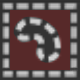
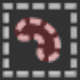
FEAT: Layers management

diff --git a/KritaPlugin/Actions/Layers/ViewLayerOpacityAdjustment.cs b/KritaPlugin/Actions/Layers/ViewLayerOpacityAdjustment.cs
@@ -1,0 +1,58 @@
+using LoupedeckKritaApiClient.ClientBase;
+
+namespace Loupedeck.KritaPlugin
+{
+    // This class implements an example adjustment that counts the rotation ticks of a dial.
+
+    public class ViewLayerOpacityAdjustment : PluginDynamicAdjustment
+    {
+        private KritaPlugin KritaPlugin => (KritaPlugin)Plugin;
+        private Timer? _timer;
+
+        // Initializes the adjustment class.
+        // When `hasReset` is set to true, a reset command is automatically created for this adjustment.
+        public ViewLayerOpacityAdjustment()
+            : base(displayName: "Layer Opacity", description: "Adjust current layer's opacity", groupName: ActionGroups.Layers, hasReset: true)
+        {
+        }
+
+        protected override BitmapImage GetAdjustmentImage(string actionParameter, PluginImageSize imageSize)
+        {
+            return EmbeddedResources.ReadImage(EmbeddedResources.FindFile("LayerOpacity.png"));
+        }
+
+        // This method is called when the adjustment is executed.
+        protected override void ApplyAdjustment(String actionParameter, Int32 diff)
+        {
+            var opacity = KritaPlugin.Client.CurrentNode.Opacity().Result;
+            var newOpacity = Math.Min(Math.Max(opacity + diff, 0), 255);
+
+            if (newOpacity != opacity)
+            {
+                KritaPlugin.Client.CurrentNode.SetOpacity(newOpacity).Wait();
+                if (_timer != null)
+                {
+                    _timer.Dispose();
+                    _timer = null;
+                }
+                _timer = new Timer((_) => KritaPlugin.Client.CurrentDocument.RefreshProjection(), null, 500, Timeout.Infinite);
+
+                AdjustmentValueChanged(); // Notify the plugin service that the adjustment value has changed.
+            }
+        }
+
+        // This method is called when the reset command related to the adjustment is executed.
+        protected override void RunCommand(String actionParameter)
+        {
+            KritaPlugin.Client.CurrentNode.SetOpacity(255).Wait();
+            KritaPlugin.Client.CurrentDocument.RefreshProjection();
+            AdjustmentValueChanged(); // Notify the plugin service that the adjustment value has changed.
+        }
+
+        // Returns the adjustment value that is shown next to the dial.
+        protected override String GetAdjustmentValue(String actionParameter)
+        {
+            return (KritaPlugin.Client.CurrentNode.Opacity().Result * 100 / 255).ToString() + " %";
+        }
+    }
+}

diff --git a/KritaPlugin/Actions/Layers/ViewMoveLayerAdjustment.cs b/KritaPlugin/Actions/Layers/ViewMoveLayerAdjustment.cs
@@ -4,20 +4,20 @@ namespace Loupedeck.KritaPlugin
 {
     // This class implements an example adjustment that counts the rotation ticks of a dial.
 
-    public class ViewCurrentLayerAdjustment : PluginDynamicAdjustment
+    public class ViewMoveLayerAdjustment : PluginDynamicAdjustment
     {
         private KritaPlugin KritaPlugin => (KritaPlugin)Plugin;
 
         // Initializes the adjustment class.
         // When `hasReset` is set to true, a reset command is automatically created for this adjustment.
-        public ViewCurrentLayerAdjustment()
-            : base(displayName: "Current Layer Selector", description: "Adjust current layer selection", groupName: ActionGroups.ViewAdjustements, hasReset: true)
+        public ViewMoveLayerAdjustment()
+            : base(displayName: "Move Layer", description: "Move layer in the stack", groupName: ActionGroups.Layers, hasReset: true)
         {
         }
 
         protected override BitmapImage GetAdjustmentImage(string actionParameter, PluginImageSize imageSize)
         {
-            return EmbeddedResources.ReadImage(EmbeddedResources.FindFile("Layers.png"));
+            return EmbeddedResources.ReadImage(EmbeddedResources.FindFile("MoveLayer.png"));
         }
 
         // This method is called when the adjustment is executed.
@@ -25,11 +25,11 @@ namespace Loupedeck.KritaPlugin
         {
             if (diff > 0)
             {
-                KritaPlugin.Client.KritaInstance.ExecuteAction(ActionsNames.ActivatePreviousLayer).Wait();
+                KritaPlugin.Client.KritaInstance.ExecuteAction(ActionsNames.Move_layer_down).Wait();
             }
             else
             {
-                KritaPlugin.Client.KritaInstance.ExecuteAction(ActionsNames.ActivateNextLayer).Wait();
+                KritaPlugin.Client.KritaInstance.ExecuteAction(ActionsNames.Move_layer_up).Wait();
             }
             //this.AdjustmentValueChanged(); // Notify the plugin service that the adjustment value has changed.
         }
@@ -37,7 +37,7 @@ namespace Loupedeck.KritaPlugin
         // This method is called when the reset command related to the adjustment is executed.
         protected override void RunCommand(String actionParameter)
         {
-            KritaPlugin.Client.KritaInstance.ExecuteAction(ActionsNames.Isolate_active_layer).Wait();
+            KritaPlugin.Client.KritaInstance.ExecuteAction(ActionsNames.Toggle_layer_visibility).Wait();
         }
 
         // Returns the adjustment value that is shown next to the dial.

diff --git a/KritaPlugin/Actions/Layers/ViewCurrentLayerAdjustment.cs b/KritaPlugin/Actions/Layers/ViewCurrentLayerAdjustment.cs
@@ -1,0 +1,49 @@
+using LoupedeckKritaApiClient.ClientBase;
+
+namespace Loupedeck.KritaPlugin
+{
+    // This class implements an example adjustment that counts the rotation ticks of a dial.
+
+    public class ViewCurrentLayerAdjustment : PluginDynamicAdjustment
+    {
+        private KritaPlugin KritaPlugin => (KritaPlugin)Plugin;
+
+        // Initializes the adjustment class.
+        // When `hasReset` is set to true, a reset command is automatically created for this adjustment.
+        public ViewCurrentLayerAdjustment()
+            : base(displayName: "Current Layer Selector", description: "Adjust current layer selection", groupName: ActionGroups.Layers, hasReset: true)
+        {
+        }
+
+        protected override BitmapImage GetAdjustmentImage(string actionParameter, PluginImageSize imageSize)
+        {
+            return EmbeddedResources.ReadImage(EmbeddedResources.FindFile("Layers.png"));
+        }
+
+        // This method is called when the adjustment is executed.
+        protected override void ApplyAdjustment(String actionParameter, Int32 diff)
+        {
+            if (diff > 0)
+            {
+                KritaPlugin.Client.KritaInstance.ExecuteAction(ActionsNames.ActivatePreviousLayer).Wait();
+            }
+            else
+            {
+                KritaPlugin.Client.KritaInstance.ExecuteAction(ActionsNames.ActivateNextLayer).Wait();
+            }
+            //this.AdjustmentValueChanged(); // Notify the plugin service that the adjustment value has changed.
+        }
+
+        // This method is called when the reset command related to the adjustment is executed.
+        protected override void RunCommand(String actionParameter)
+        {
+            KritaPlugin.Client.KritaInstance.ExecuteAction(ActionsNames.Isolate_active_layer).Wait();
+        }
+
+        // Returns the adjustment value that is shown next to the dial.
+        protected override String GetAdjustmentValue(String actionParameter)
+        {
+            return string.Empty;
+        }
+    }
+}

diff --git a/KritaPlugin/Actions/Layers/LayerSelectGlobalSelecionCommand.cs b/KritaPlugin/Actions/Layers/LayerSelectGlobalSelecionCommand.cs
@@ -1,0 +1,27 @@
+using LoupedeckKritaApiClient.ClientBase;
+
+namespace Loupedeck.KritaPlugin
+{
+    // This class implements an example adjustment that counts the rotation ticks of a dial.
+
+    public class LayerSelectGlobalSelecionCommand : PluginDynamicCommand
+    {
+        private KritaPlugin KritaPlugin => (KritaPlugin)Plugin;
+
+        // Initializes the command class.
+        public LayerSelectGlobalSelecionCommand()
+            : base(displayName: "Global selection", description: "Select global selection layer", groupName: ActionGroups.Layers)
+        {
+        }
+
+        protected override BitmapImage GetCommandImage(string actionParameter, PluginImageSize imageSize)
+        {
+            return EmbeddedResources.ReadImage(EmbeddedResources.FindFile("GlobalSelection.png"));
+        }
+
+        protected override void RunCommand(string actionParameter)
+        {
+            KritaPlugin.Client.KritaInstance.ExecuteAction(ActionsNames.Show_global_selection_mask).Wait();
+        }
+    }
+}

diff --git a/LoupedeckKritaApiClient/ClientBase/Client.cs b/LoupedeckKritaApiClient/ClientBase/Client.cs
@@ -13,6 +13,7 @@ namespace LoupedeckKritaApiClient.ClientBase
         private readonly Canvas _currentCanvas;
         private readonly View _currentView;
         private readonly Document _currentDocument;
+        private readonly Node _currentNode;
         private readonly SemaphoreSlim _semaphore = new(1, 1);
         public Client()
         {
@@ -35,6 +36,11 @@ namespace LoupedeckKritaApiClient.ClientBase
             {
                 Client = this,
                 PrimitiveName = "currentDocument"
+            };
+            _currentNode = new Node()
+            {
+                Client = this,
+                PrimitiveName = "currentNode"
             };
         }
 
@@ -234,5 +240,6 @@ namespace LoupedeckKritaApiClient.ClientBase
         public Canvas CurrentCanvas { get => _currentCanvas; }
         public View CurrentView { get => _currentView; }
         public Document CurrentDocument { get => _currentDocument; }
+        public Node CurrentNode { get => _currentNode; }
     }
 }

diff --git a/KritaPlugin/Actions/Layers/LayerVisibleCommand.cs b/KritaPlugin/Actions/Layers/LayerVisibleCommand.cs
@@ -1,0 +1,27 @@
+using LoupedeckKritaApiClient.ClientBase;
+
+namespace Loupedeck.KritaPlugin
+{
+    // This class implements an example adjustment that counts the rotation ticks of a dial.
+
+    public class LayerVisibleCommand : PluginDynamicCommand
+    {
+        private KritaPlugin KritaPlugin => (KritaPlugin)Plugin;
+
+        // Initializes the command class.
+        public LayerVisibleCommand()
+            : base(displayName: "Toggle Layer visible", description: "Toggle current layer visible", groupName: ActionGroups.Layers)
+        {
+        }
+
+        protected override BitmapImage GetCommandImage(string actionParameter, PluginImageSize imageSize)
+        {
+            return EmbeddedResources.ReadImage(EmbeddedResources.FindFile("ToggleVisibleLayer.png"));
+        }
+
+        protected override void RunCommand(string actionParameter)
+        {
+            KritaPlugin.Client.KritaInstance.ExecuteAction(ActionsNames.Toggle_layer_visibility).Wait();
+        }
+    }
+}

diff --git a/KritaPlugin/Actions/Layers/LayerPropertiesCommand.cs b/KritaPlugin/Actions/Layers/LayerPropertiesCommand.cs
@@ -1,0 +1,27 @@
+using LoupedeckKritaApiClient.ClientBase;
+
+namespace Loupedeck.KritaPlugin
+{
+    // This class implements an example adjustment that counts the rotation ticks of a dial.
+
+    public class LayerPropertiesCommand : PluginDynamicCommand
+    {
+        private KritaPlugin KritaPlugin => (KritaPlugin)Plugin;
+
+        // Initializes the command class.
+        public LayerPropertiesCommand()
+            : base(displayName: "Layer properties", description: "Show Layer properties", groupName: ActionGroups.Layers)
+        {
+        }
+
+        protected override BitmapImage GetCommandImage(string actionParameter, PluginImageSize imageSize)
+        {
+            return EmbeddedResources.ReadImage(EmbeddedResources.FindFile("LayerProperties.png"));
+        }
+
+        protected override void RunCommand(string actionParameter)
+        {
+            KritaPlugin.Client.KritaInstance.ExecuteAction(ActionsNames.Layer_properties).Wait();
+        }
+    }
+}

diff --git a/KritaPlugin/Actions/Layers/LayerLockCommand.cs b/KritaPlugin/Actions/Layers/LayerLockCommand.cs
@@ -1,0 +1,27 @@
+using LoupedeckKritaApiClient.ClientBase;
+
+namespace Loupedeck.KritaPlugin
+{
+    // This class implements an example adjustment that counts the rotation ticks of a dial.
+
+    public class LayerLockCommand : PluginDynamicCommand
+    {
+        private KritaPlugin KritaPlugin => (KritaPlugin)Plugin;
+
+        // Initializes the command class.
+        public LayerLockCommand()
+            : base(displayName: "Lock/Unlock Layer", description: "Lock or unlock current layer", groupName: ActionGroups.Layers)
+        {
+        }
+
+        protected override BitmapImage GetCommandImage(string actionParameter, PluginImageSize imageSize)
+        {
+            return EmbeddedResources.ReadImage(EmbeddedResources.FindFile("LockLayer.png"));
+        }
+
+        protected override void RunCommand(string actionParameter)
+        {
+            KritaPlugin.Client.KritaInstance.ExecuteAction(ActionsNames.Toggle_layer_lock).Wait();
+        }
+    }
+}

diff --git a/KritaPlugin/Actions/Layers/LayerStyleCommand.cs b/KritaPlugin/Actions/Layers/LayerStyleCommand.cs
@@ -1,0 +1,27 @@
+using LoupedeckKritaApiClient.ClientBase;
+
+namespace Loupedeck.KritaPlugin
+{
+    // This class implements an example adjustment that counts the rotation ticks of a dial.
+
+    public class LayerStyleCommand : PluginDynamicCommand
+    {
+        private KritaPlugin KritaPlugin => (KritaPlugin)Plugin;
+
+        // Initializes the command class.
+        public LayerStyleCommand()
+            : base(displayName: "Layer style", description: "Show Layer style", groupName: ActionGroups.Layers)
+        {
+        }
+
+        protected override BitmapImage GetCommandImage(string actionParameter, PluginImageSize imageSize)
+        {
+            return EmbeddedResources.ReadImage(EmbeddedResources.FindFile("LayerStyle.png"));
+        }
+
+        protected override void RunCommand(string actionParameter)
+        {
+            KritaPlugin.Client.KritaInstance.ExecuteAction(ActionsNames.Layer_style).Wait();
+        }
+    }
+}

diff --git a/LoupedeckKritaApiClient/Node.cs b/LoupedeckKritaApiClient/Node.cs
@@ -1,0 +1,17 @@
+using LoupedeckKritaApiClient.ClientBase;
+
+namespace LoupedeckKritaApiClient
+{
+    public class Node(): LoupedeckClientKritaBaseClass
+    {
+        public Task<int> Opacity() => GetInt("opacity");
+        public Task SetOpacity(int opacity) => Execute("setOpacity", opacity);
+        public Task<bool> AlphaLocked() => GetBool("alphaLocked");
+        public Task SetAlphaLocked(bool locked) => Execute("setAlphaLocked", locked);
+        public Task<bool> InheritAlpha() => GetBool("inheritAlpha");
+        public Task SetInheritAlpha(bool inherit) => Execute("setInheritAlpha", inherit);
+        public Task<bool> Locked() => GetBool("locked");
+        public Task SetLocked(bool locked) => Execute("setLocked", locked);
+
+    }
+}

diff --git a/LoupedeckKritaApiClient/ClientBase/ActionsNames.cs b/LoupedeckKritaApiClient/ClientBase/ActionsNames.cs
@@ -473,7 +473,7 @@
         public const string Zoom_to_fit_range = "zoom_to_fit_range";
         public const string Zoom_to_fit_curve = "zoom_to_fit_curve";
         public const string Drop_frames = "drop_frames";
-        public const string Show_global_selection_mask = "show_global-selection-mask";
+        public const string Show_global_selection_mask = "show-global-selection-mask";
         public const string RenameCurrentLayer = "RenameCurrentLayer";
         public const string Layer_properties = "layer_properties";
         public const string Remove_layer = "remove_layer";

diff --git a/LoupedeckKritaApiClient/Document.cs b/LoupedeckKritaApiClient/Document.cs
@@ -4,8 +4,11 @@ namespace LoupedeckKritaApiClient
 {
     public class Document(): LoupedeckClientKritaBaseClass
     {
+        public Task<Node> ActiveNode() => Get<Node>("activeNode");
         public Task<int> GetResolution() => GetInt("resolution");
-        public Task SetResolution(int resolution) => Execute("resolution", resolution);
+        public Task SetResolution(int resolution) => Execute("setResolution", resolution);
+        public Task RefreshProjection() => Execute("refreshProjection");
+
         public Task Close() => Execute("close");
     }
 }
